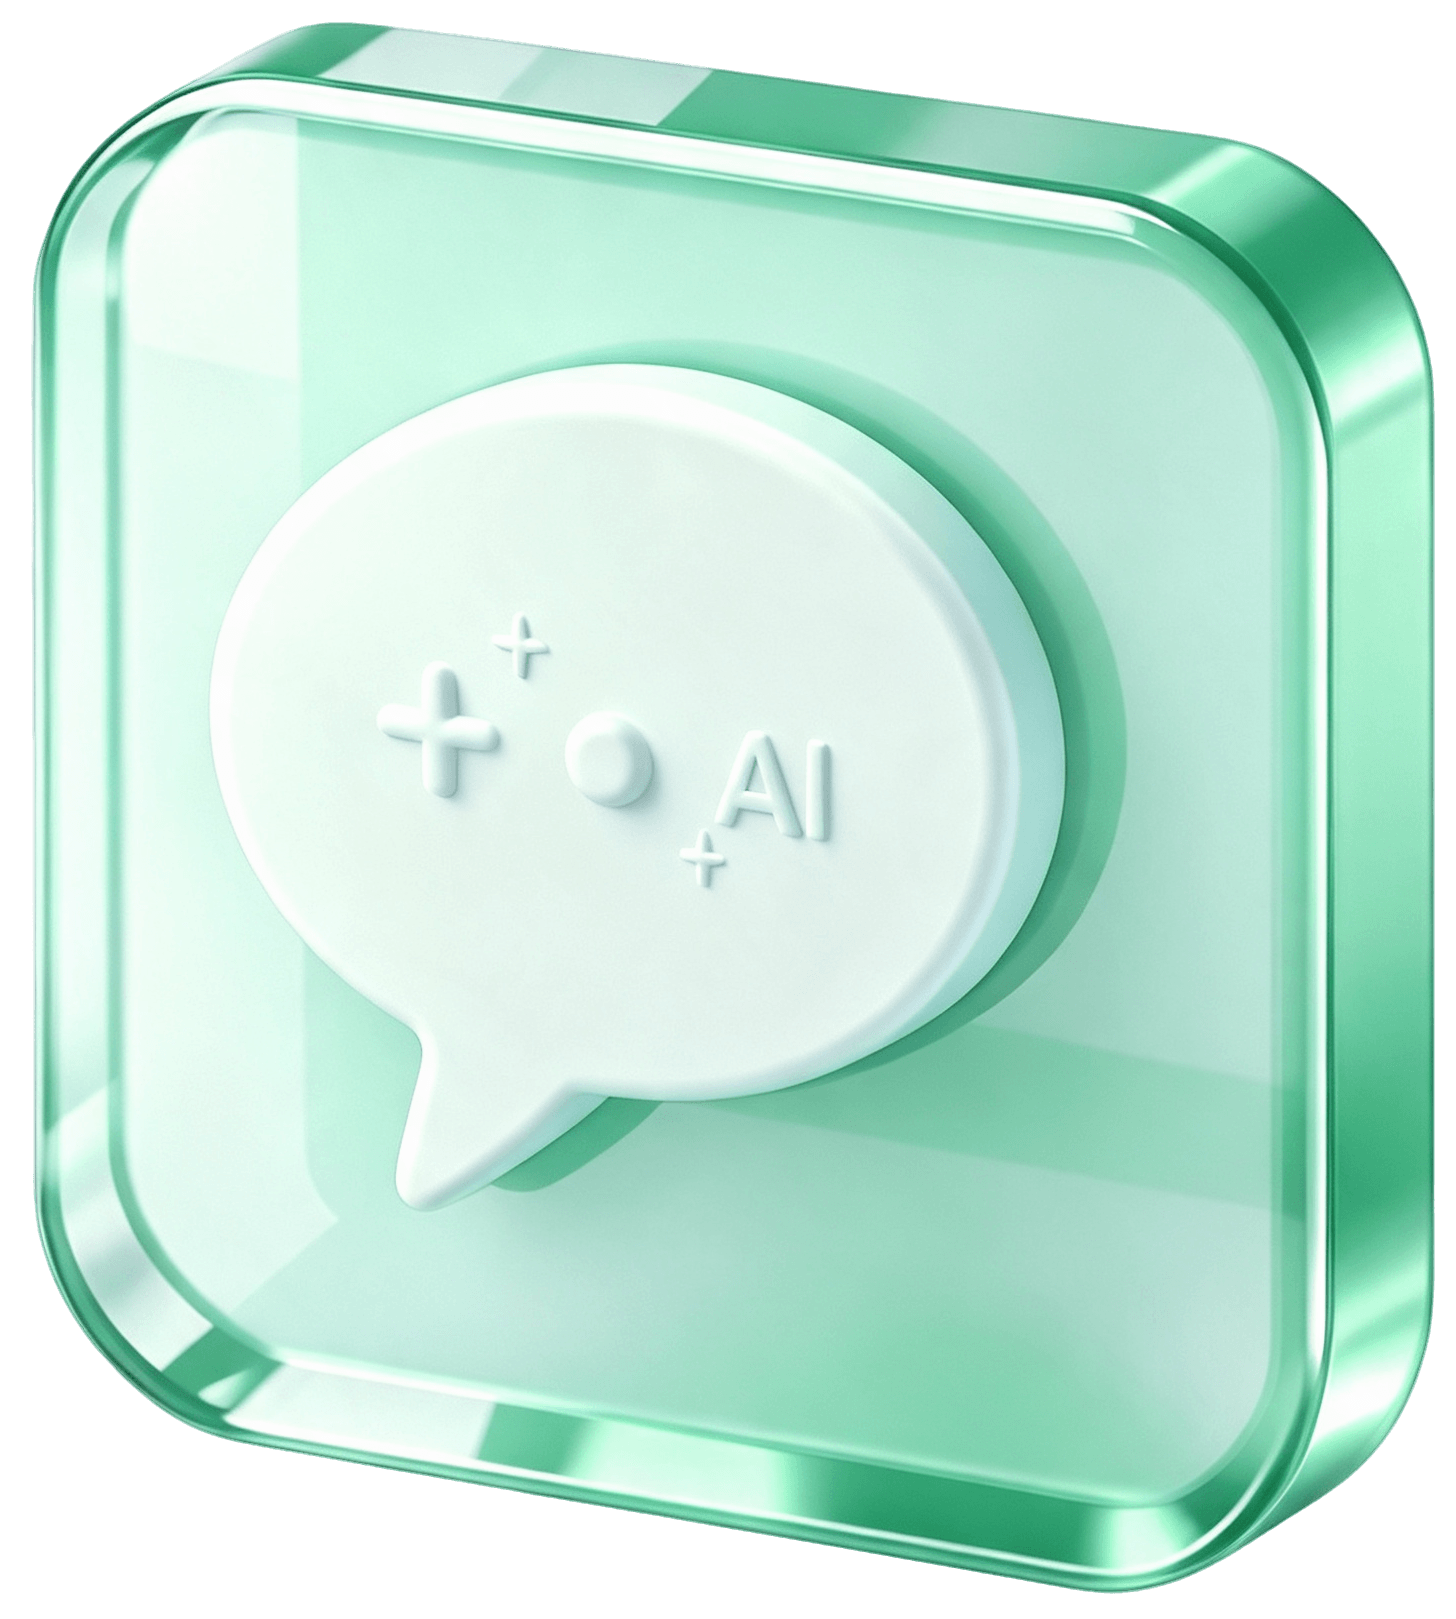
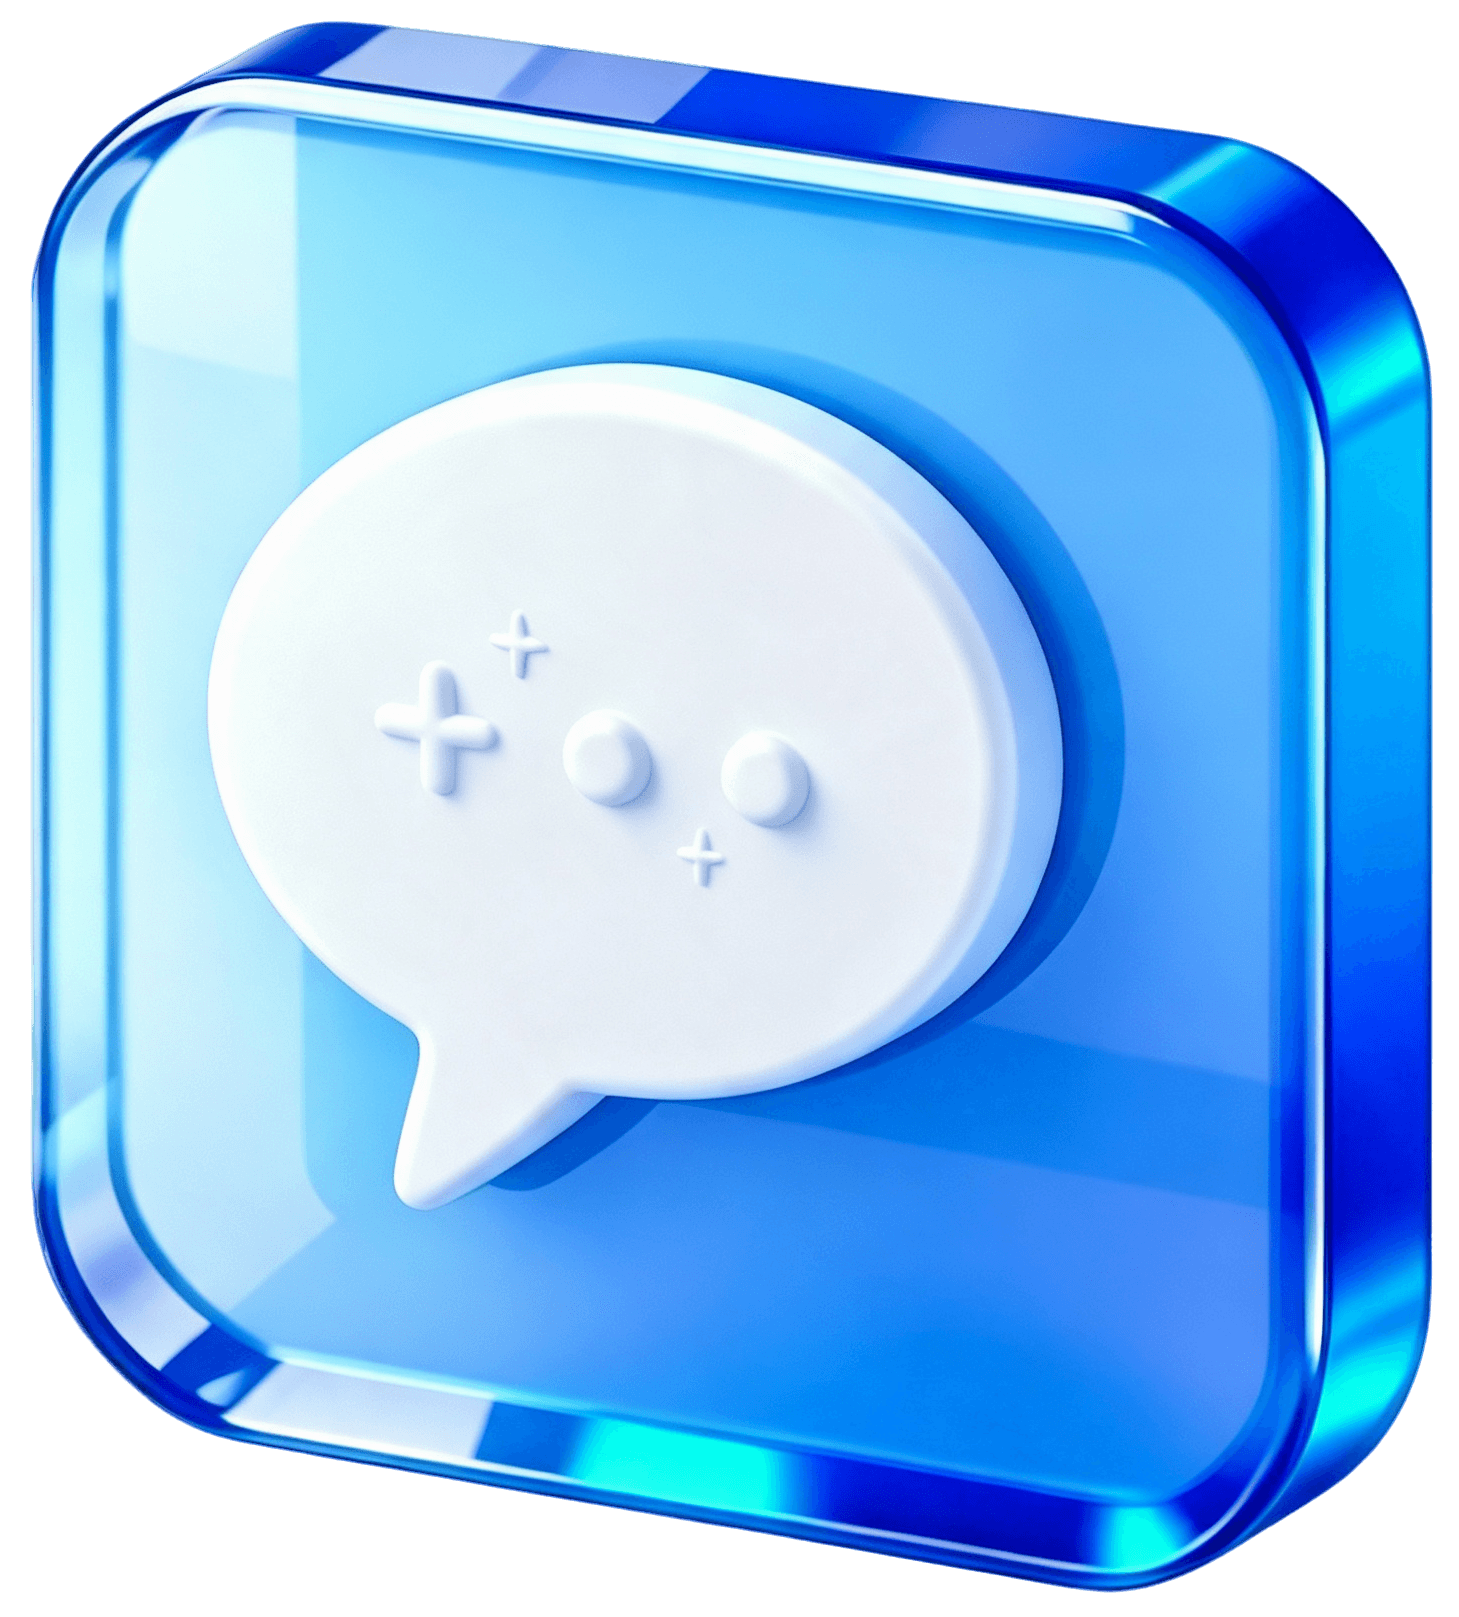
提交代码，智能预问诊颜色改为浅蓝

diff --git a/src/styles/theme.css b/src/styles/theme.css
@@ -1,11 +1,11 @@
 :root {
-  /* 修改这里即可切换整套主题 */
-  --theme-primary: #008779;
-  --theme-primary-deep: #007267;
+  /* 修改这里即可切换整套主题 2488FA */
+  --theme-primary: #419AFE;
+  --theme-primary-deep: #2488FA;
   --theme-primary-soft: #dff5f2;
   --theme-primary-muted: #eef8f7;
   --theme-secondary: #b9d9d4;
-  --theme-accent: #0f9a8a;
+  --theme-accent: #429BFE;
   --theme-bg: #f5faf9;
   --theme-bg-dots: rgba(0, 135, 121, 0.1);
   --theme-surface: #ffffff;
@@ -27,17 +27,17 @@
   --theme-alert-text: #9a6a1b;
   --theme-alert-icon: #f39c12;
   --theme-danger: #c65a5a;
-  --theme-nav-start: #0f9a8a;
-  --theme-nav-end: #007267;
+  --theme-nav-start: #429BFE;
+  --theme-nav-end: #2488FA;
   --theme-nav-shadow: 0 8px 18px rgba(0, 114, 103, 0.2);
   --theme-hero-start: #dff5f2;
   --theme-hero-end: #f7fcfb;
   --theme-hero-border: #c8e3de;
   --theme-step-active-bg: #e5f4f1;
   --theme-step-active-border: #a9cdc6;
-  --theme-step-active-text: #008779;
+  --theme-step-active-text: #419AFE;
   --theme-chat-doctor-bg: #ffffff;
-  --theme-chat-patient-bg: linear-gradient(180deg, #0f9a8a 0%, #007267 100%);
+  --theme-chat-patient-bg: linear-gradient(180deg, #429BFE 0%, #2488FA 100%);
   --theme-overlay: rgba(255, 255, 255, 0.92);
   --theme-preview-line: rgba(0, 135, 121, 0.16);
   --theme-preview-line-soft: rgba(0, 135, 121, 0.03);

diff --git a/src/views/patient/HomeView.vue b/src/views/patient/HomeView.vue
@@ -1,7 +1,7 @@
 <script setup lang="ts">
 import { useRouter } from 'vue-router'
 import { useConsultationStore } from '@/stores/consultation'
-import stepOneImage from '@/assets/image/1.webp'
+import stepOneImage from '@/assets/image/1.png'
 import stepTwoImage from '@/assets/image/2.png'
 import stepThreeImage from '@/assets/image/3.png'
 import hosiptalImg from '@/assets/image/5.png'
